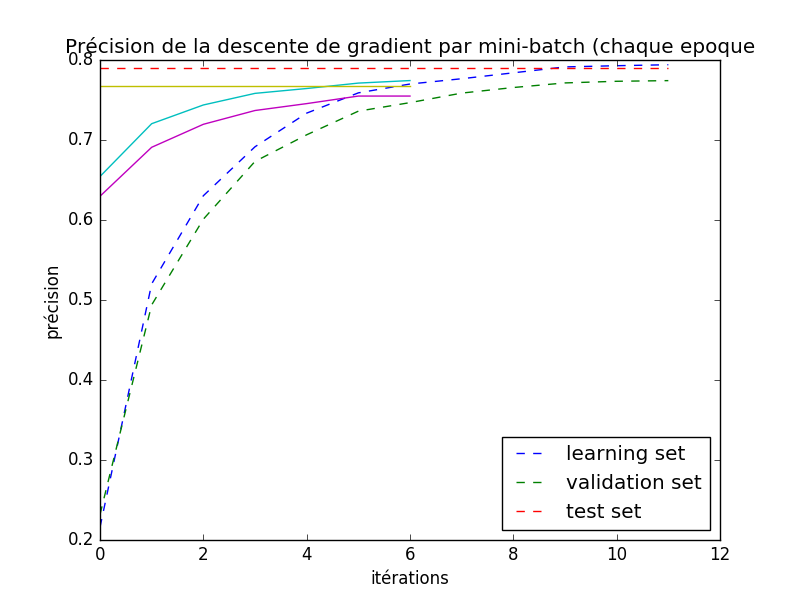
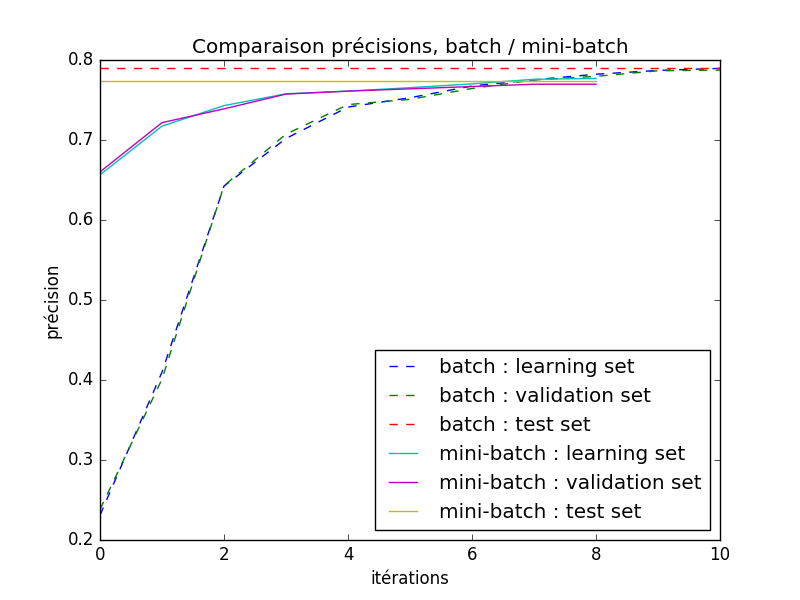
add comparaison graphs + code ok pr remise

diff --git a/TP2/python/TP2.py b/TP2/python/TP2.py
@@ -4,6 +4,8 @@ import scipy.io as sio
 from scipy.sparse import vstack
 from scipy import sparse
 
+
+# function which create traning, validation and test sets from data
 def create_train_valid_test_splits(X, Y):
     indices = np.arange(Y.shape[0])
     np.random.shuffle(indices)
@@ -18,6 +20,8 @@ def create_train_valid_test_splits(X, Y):
     YT = Y[indices[index[1]:],:]
     return XA, XV, XT, YA, YV, YT
 
+
+# compute the precision on a set
 def get_precision(X, Y, Theta):
     # compute P(Y|X)
     Z = np.sum(np.exp(Theta * X), 0)
@@ -104,9 +108,12 @@ while not converged:
 
     precisions = np.vstack((precisions, [precisionsA, precisionsV]))
 
-    # update theta with momentum
+    # update Theta with momentum
     v = gamma*v + taux_dapprentissage * gradient
     Theta = Theta - v
+
+    # update Theta without momentum
+    # Theta -= taux_dapprentissage*gradient
 
 
     # check convergence
@@ -125,23 +132,21 @@ print('Precision sur l\' ensemble de test: %f' %precisionsT)
 
 precisions = np.hstack((precisions, np.full((len(precisions),1), precisionsT)))
 
-# plt.figure(1)
-# plt.plot(np.arange(len(precisions)), precisions)
-# plt.xlabel('itérations')
-# plt.ylabel('précision')
-# plt.title('Précision de la descente de gradient par batch')
-# plt.legend(['learning set', 'validation set', 'test set'], loc=4)
-#
-#
-# plt.figure(2)
-# plt.plot(np.arange(len(logV)), logV)
-# plt.xlabel('itérations')
-# plt.ylabel('log-vraisemblance')
-# plt.title('Log vraisemblance pendant la descente de gradient par batch')
-#
-# plt.show()
-#
-#
+plt.figure(1)
+plt.plot(np.arange(len(precisions)), precisions)
+plt.xlabel('itérations')
+plt.ylabel('précision')
+plt.title('Précision de la descente de gradient par batch')
+plt.legend(['learning set', 'validation set', 'test set'], loc=4)
+
+
+plt.figure(2)
+plt.plot(np.arange(len(logV)), logV)
+plt.xlabel('itérations')
+plt.ylabel('log-vraisemblance')
+plt.title('Log vraisemblance pendant la descente de gradient par batch')
+
+plt.show()
 
 
 
@@ -150,6 +155,7 @@ precisions = np.hstack((precisions, np.full((len(precisions),1), precisionsT)))
 Theta = save_Theta
 
 
+# return n mini-batch from input data
 def get_mini_batch(X, Y, n):
     size_data = Y.shape[0] # number of instance
 
@@ -255,36 +261,7 @@ mbPrecisions = np.hstack((mbPrecisions, np.full((len(mbPrecisions),1), precision
 mbPrecisions_mini_batch = np.hstack((mbPrecisions_mini_batch, np.full((len(mbPrecisions_mini_batch),1), precisionsT)))
 
 
-# g1 = plt.figure(1)
-# plt.plot(np.arange(len(mbPrecisions)), mbPrecisions)
-# plt.xlabel('itérations')
-# plt.ylabel('précision')
-# plt.title('Précision de la descente de gradient par mini-batch (chaque epoque')
-# plt.legend(['learning set', 'validation set', 'test set'],loc=4)
-# g1.show()
-#
-# g2 = plt.figure(2)
-# plt.plot(np.arange(len(mbPrecisions_mini_batch)), mbPrecisions_mini_batch)
-# plt.xlabel('itérations')
-# plt.ylabel('précision')
-# plt.title('Précision de la descente de gradient par mini-batch (chaque iteration pr chaque mini-batch)')
-# plt.legend(['learning set', 'validation set', 'test set'],loc=4)
-# g2.show()
-#
-# g3 = plt.figure(3)
-# plt.plot(np.arange(len(logV)), logV)
-# plt.xlabel('itérations')
-# plt.ylabel('log-vraisemblance')
-# plt.title('Log vraisemblance pendant la descente de gradient par batch')
-# g3.show()
-#
-# plt.show()
-
-
-
-
 g1 = plt.figure(1)
-plt.plot(np.arange(len(precisions)), precisions, '--',)
 plt.plot(np.arange(len(mbPrecisions)), mbPrecisions)
 plt.xlabel('itérations')
 plt.ylabel('précision')
@@ -292,6 +269,13 @@ plt.title('Précision de la descente de gradient par mini-batch (chaque epoque')
 plt.legend(['learning set', 'validation set', 'test set'],loc=4)
 g1.show()
 
+g2 = plt.figure(2)
+plt.plot(np.arange(len(mbPrecisions_mini_batch)), mbPrecisions_mini_batch)
+plt.xlabel('itérations')
+plt.ylabel('précision')
+plt.title('Précision de la descente de gradient par mini-batch (chaque iteration pr chaque mini-batch)')
+plt.legend(['learning set', 'validation set', 'test set'],loc=4)
+g2.show()
 
 g3 = plt.figure(3)
 plt.plot(np.arange(len(logV)), logV)
@@ -301,3 +285,17 @@ plt.title('Log vraisemblance pendant la descente de gradient par batch')
 g3.show()
 
 plt.show()
+
+
+
+# graph : batch and mini-batch precision on the same graph
+# g1 = plt.figure(1)
+# plt.plot(np.arange(len(precisions)), precisions, '--',)
+# plt.plot(np.arange(len(mbPrecisions)), mbPrecisions)
+# plt.xlabel('itérations')
+# plt.ylabel('précision')
+# plt.title('Comparaison précisions, batch / mini-batch')
+# plt.legend(['batch : learning set', 'batch : validation set', 'batch : test set', 'mini-batch : learning set', 'mini-batch : validation set', 'mini-batch : test set'],loc=4)
+# g1.show()
+#
+# plt.show()
